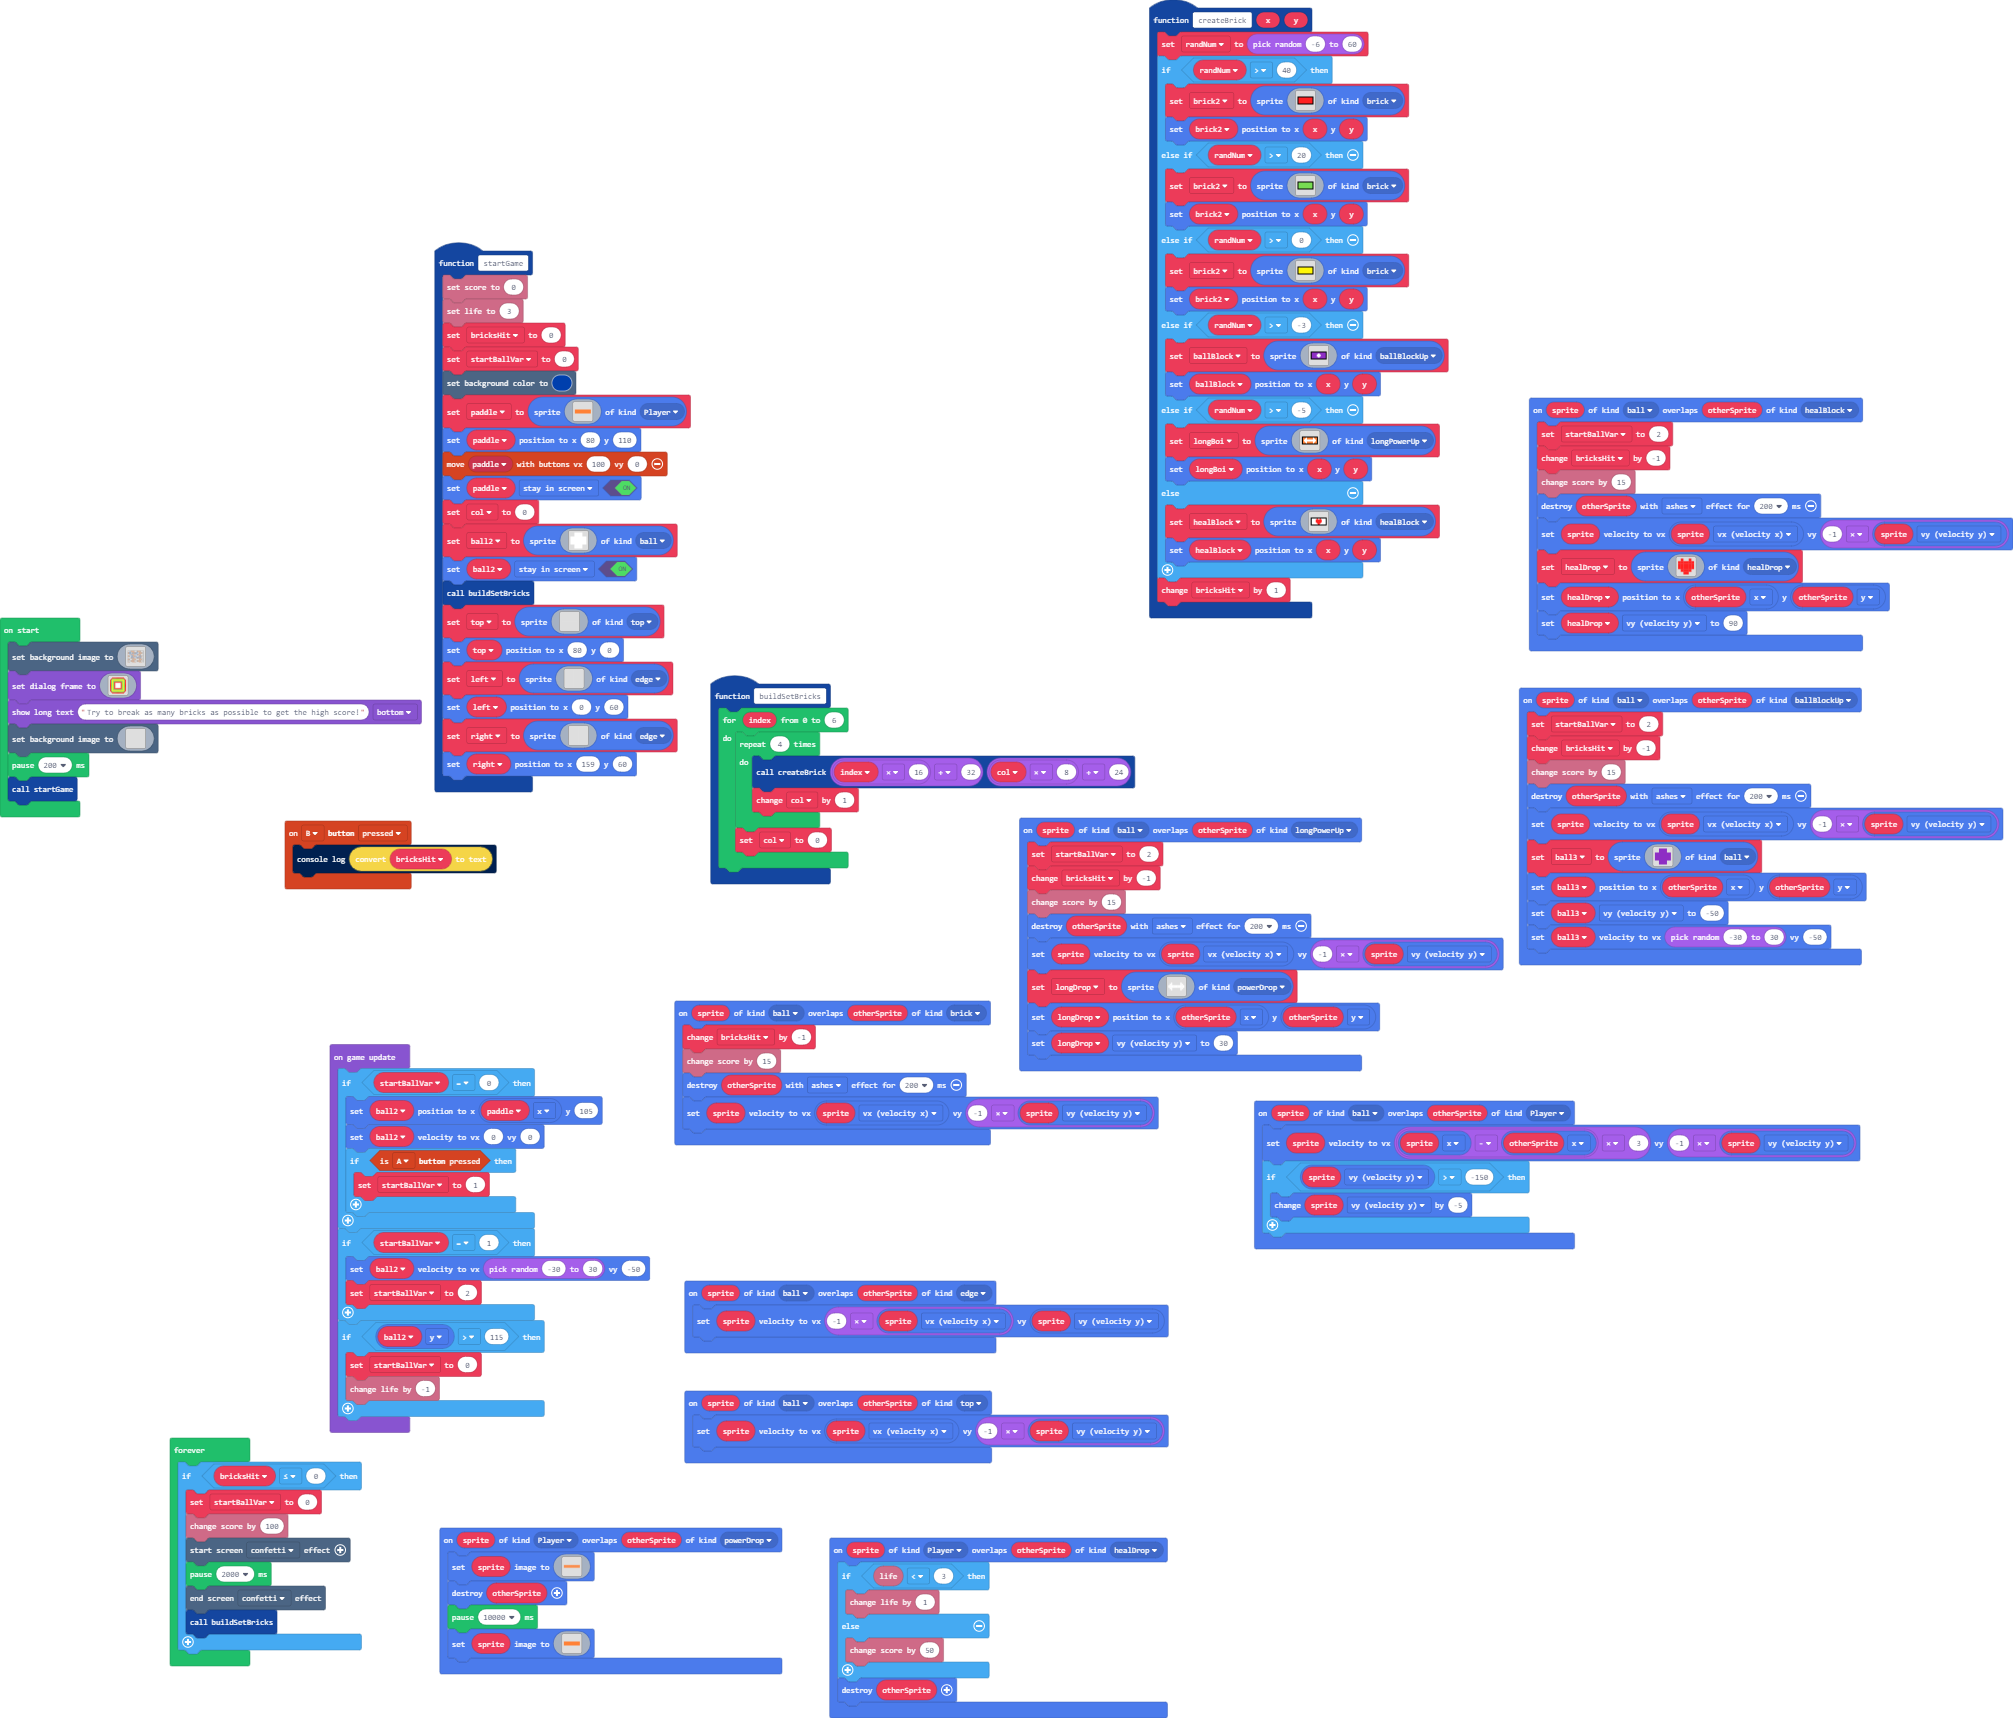
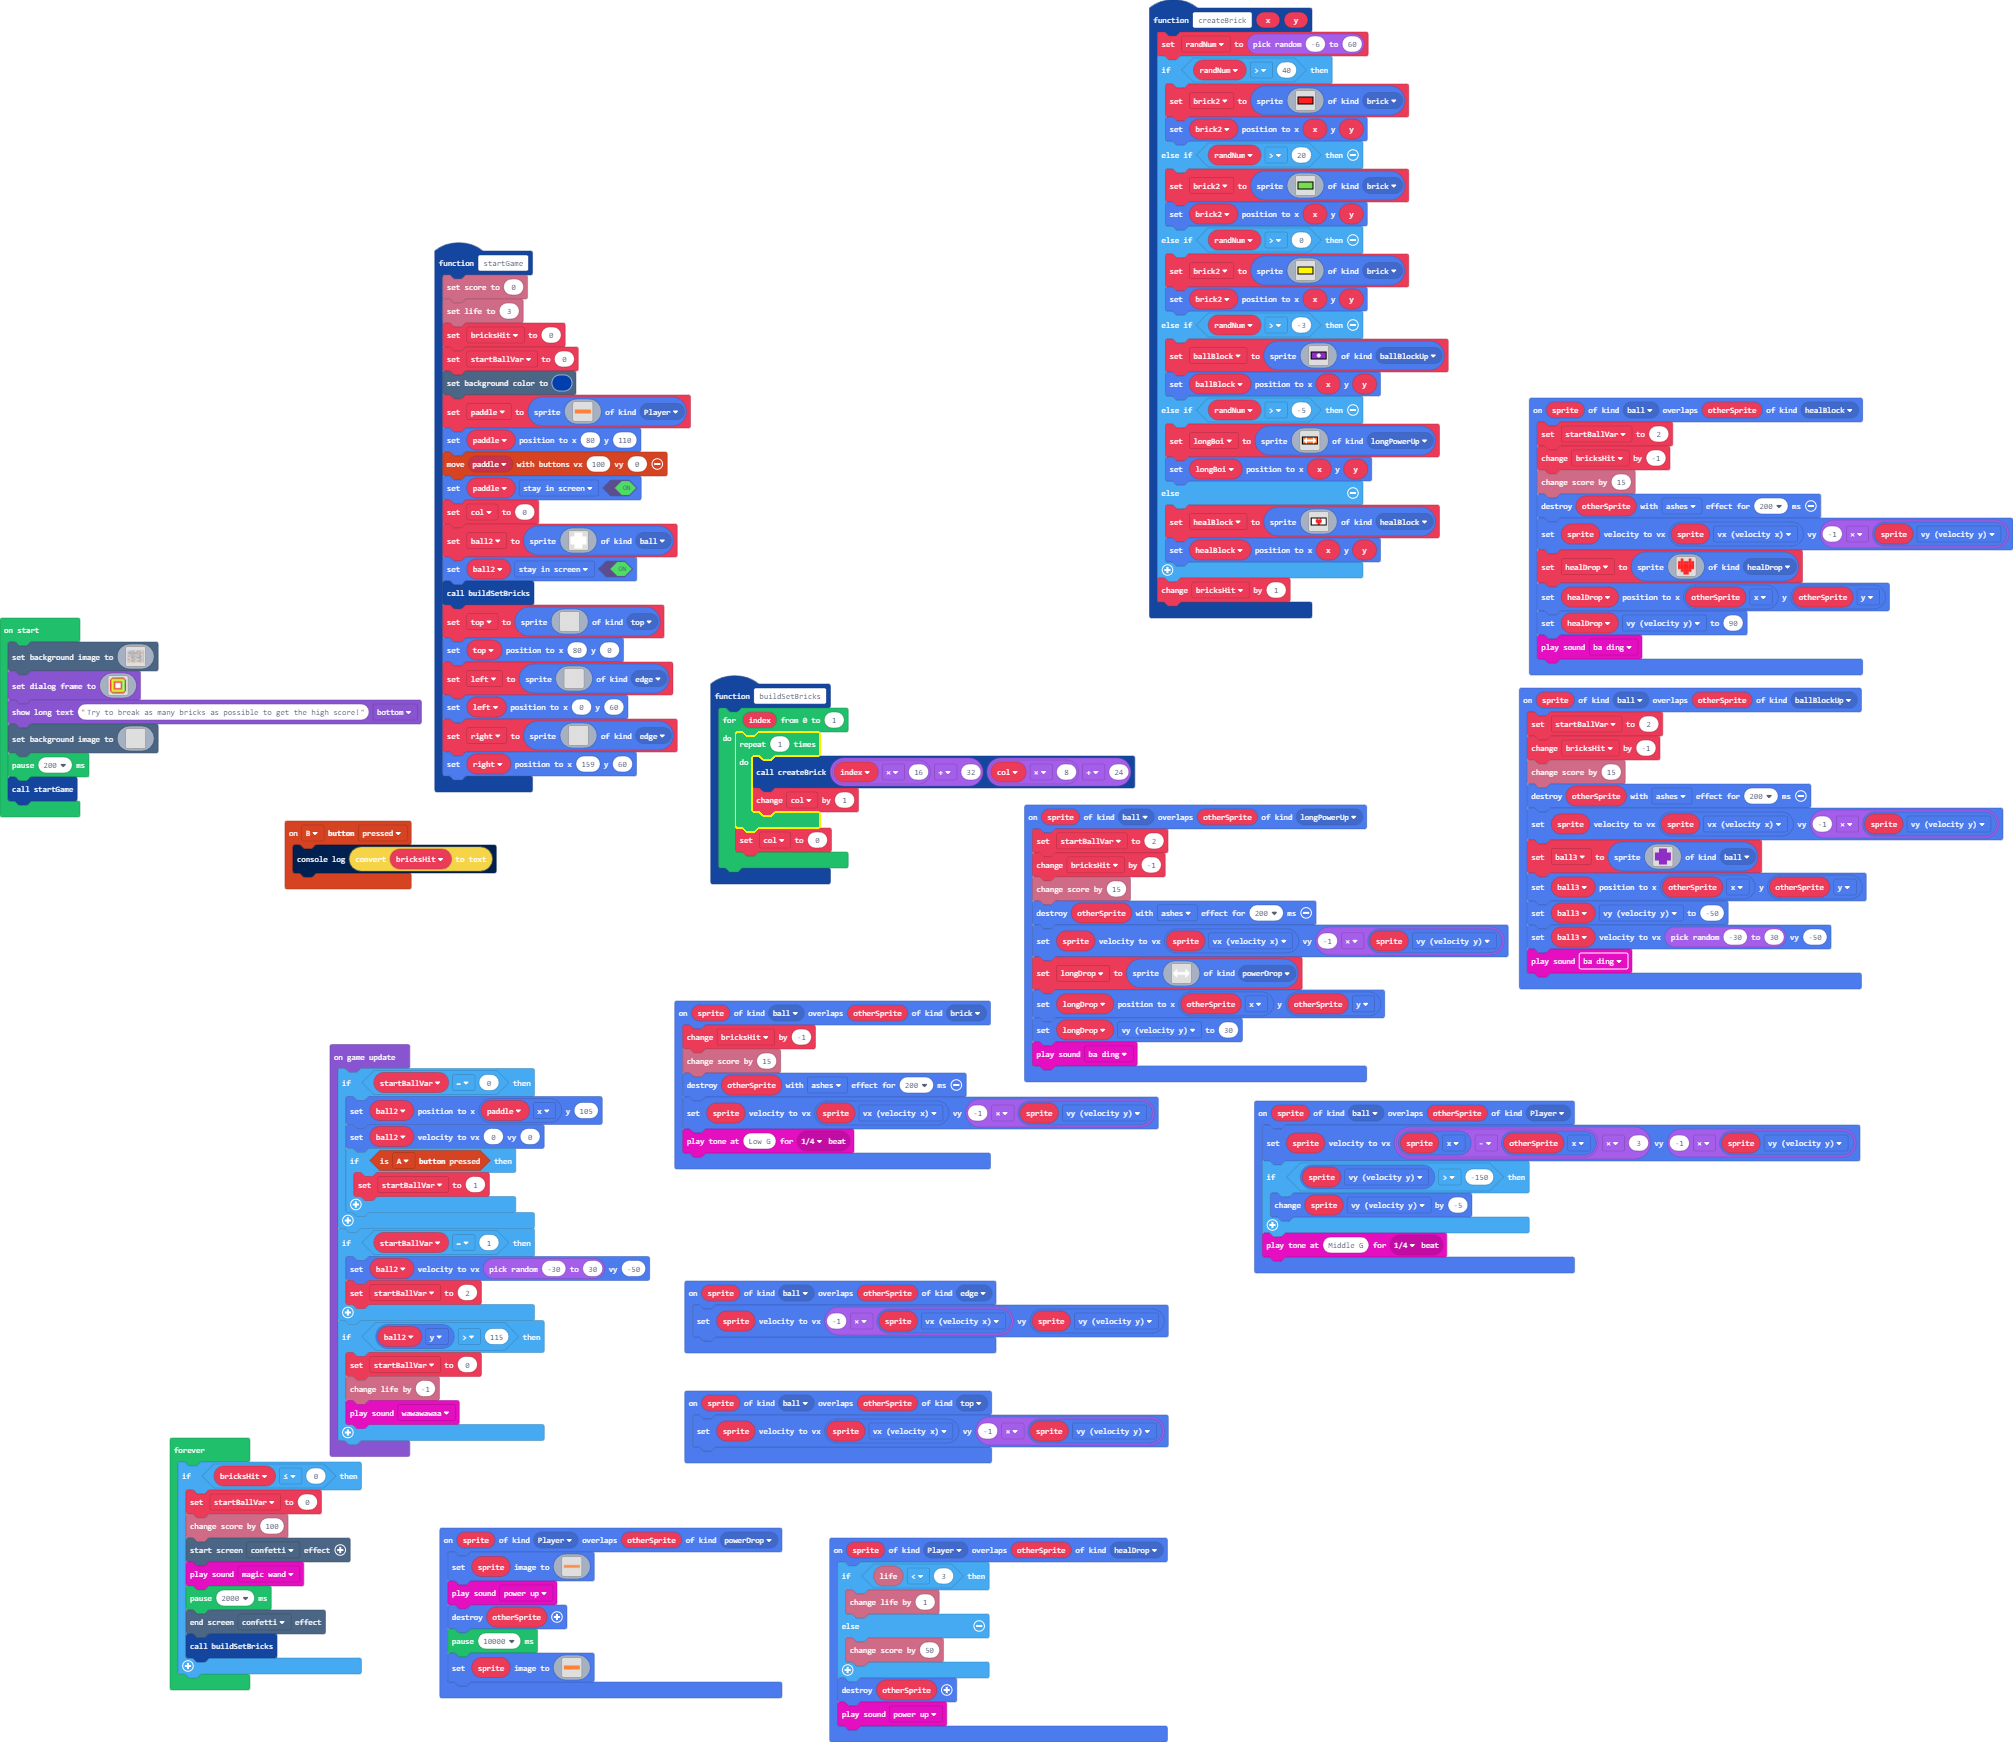
added sound

Changed region(s): [[0.0, 0.1234, 1.0, 0.7404], [0.0616, 0.5861, 0.5852, 1.0], [0.5544, 0.0, 0.7392, 0.3702]]

diff --git a/main.ts b/main.ts
@@ -14,6 +14,7 @@ sprites.onOverlap(SpriteKind.ball, SpriteKind.brick, function (sprite, otherSpri
     info.changeScoreBy(15)
     otherSprite.destroy(effects.ashes, 200)
     sprite.setVelocity(sprite.vx, -1 * sprite.vy)
+    music.playTone(196, music.beat(BeatFraction.Quarter))
 })
 function startGame () {
     info.setScore(0)
@@ -311,6 +312,7 @@ a a a a
     ball3.setPosition(otherSprite.x, otherSprite.y)
     ball3.vy = -50
     ball3.setVelocity(Math.randomRange(-30, 30), -50)
+    music.baDing.play()
 })
 sprites.onOverlap(SpriteKind.ball, SpriteKind.longPowerUp, function (sprite, otherSprite) {
     startBallVar = 2
@@ -328,6 +330,7 @@ sprites.onOverlap(SpriteKind.ball, SpriteKind.longPowerUp, function (sprite, oth
 `, SpriteKind.powerDrop)
     longDrop.setPosition(otherSprite.x, otherSprite.y)
     longDrop.vy = 30
+    music.baDing.play()
 })
 sprites.onOverlap(SpriteKind.Player, SpriteKind.healDrop, function (sprite, otherSprite) {
     if (info.life() < 3) {
@@ -336,12 +339,14 @@ sprites.onOverlap(SpriteKind.Player, SpriteKind.healDrop, function (sprite, othe
         info.changeScoreBy(50)
     }
     otherSprite.destroy()
+    music.powerUp.play()
 })
 sprites.onOverlap(SpriteKind.ball, SpriteKind.Player, function (sprite, otherSprite) {
     sprite.setVelocity((sprite.x - otherSprite.x) * 3, -1 * sprite.vy)
     if (sprite.vy > -150) {
         sprite.vy += -5
     }
+    music.playTone(392, music.beat(BeatFraction.Quarter))
 })
 sprites.onOverlap(SpriteKind.Player, SpriteKind.powerDrop, function (sprite, otherSprite) {
     sprite.setImage(img`
@@ -350,6 +355,7 @@ sprites.onOverlap(SpriteKind.Player, SpriteKind.powerDrop, function (sprite, oth
 4 4 4 4 4 4 4 4 4 4 4 4 4 4 4 4 4 4 4 4 4 4 4 4 
 4 4 4 4 4 4 4 4 4 4 4 4 4 4 4 4 4 4 4 4 4 4 4 4 
 `)
+    music.powerUp.play()
     otherSprite.destroy()
     pause(10000)
     sprite.setImage(img`
@@ -375,10 +381,11 @@ sprites.onOverlap(SpriteKind.ball, SpriteKind.healBlock, function (sprite, other
 `, SpriteKind.healDrop)
     healDrop.setPosition(otherSprite.x, otherSprite.y)
     healDrop.vy = 90
+    music.baDing.play()
 })
 function buildSetBricks () {
-    for (let index = 0; index <= 6; index++) {
-        for (let index2 = 0; index2 < 4; index2++) {
+    for (let index = 0; index <= 1; index++) {
+        for (let index2 = 0; index2 < 1; index2++) {
             createBrick(index * 16 + 32, col * 8 + 24)
             col += 1
         }
@@ -760,6 +767,7 @@ game.onUpdate(function () {
     if (ball2.y > 115) {
         startBallVar = 0
         info.changeLifeBy(-1)
+        music.wawawawaa.play()
     }
 })
 forever(function () {
@@ -767,6 +775,7 @@ forever(function () {
         startBallVar = 0
         info.changeScoreBy(100)
         effects.confetti.startScreenEffect()
+        music.magicWand.play()
         pause(2000)
         effects.confetti.endScreenEffect()
         buildSetBricks()
